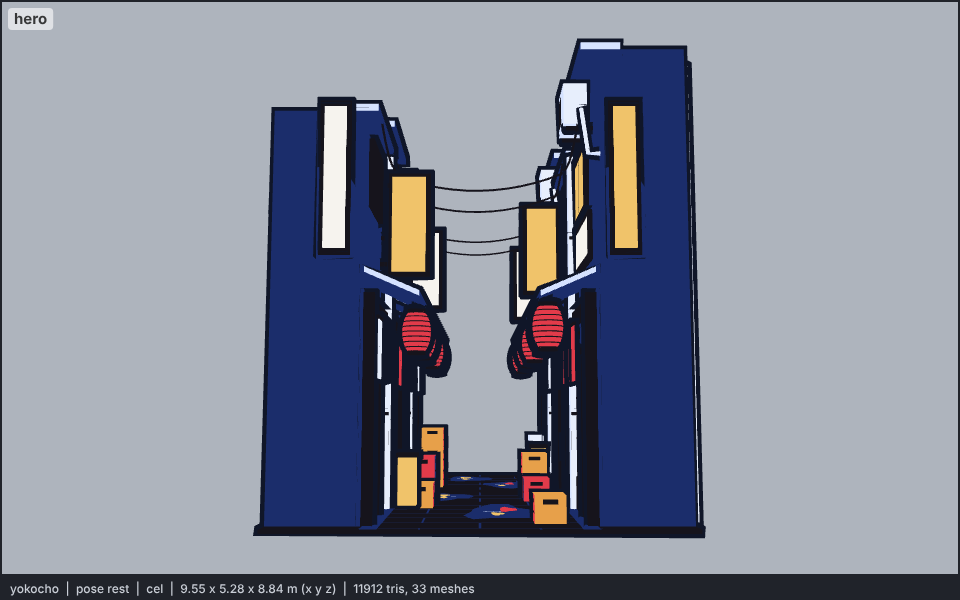
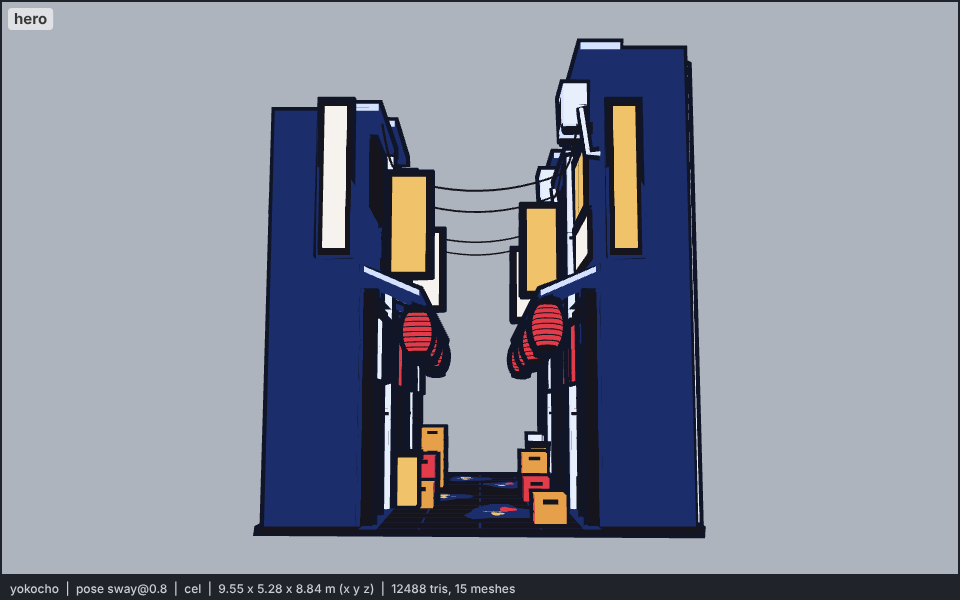
models: yokocho, merge to 15 meshes; lanterns swing by vertex rewrite
Static parts merge per material pair (pave into wood, lines and wires into
lattice, sky lines and puddles into one, amber reflections into glow).
The lanterns have no meshes of their own: paper, rib bands and caps are
vertex ranges in the noren-red, lattice and wood meshes, and pose()
rotates each range (positions, normals, hull normals) about its pivot
joint. The paper is now closed under one hull with the rib bands 4 mm
proud. 10 segments a lantern: ~12.5k triangles at default, ~18.5k at
length 12.

Claude-Session: https://claude.ai/code/session_01RarBCdt4E1fNHHaUKaW5GL

Changed region(s): [[0.0938, 0.96, 0.5312, 1.0], [0.5312, 0.51, 0.5938, 0.63], [0.4062, 0.51, 0.4688, 0.63]]

diff --git a/models/yokocho.js b/models/yokocho.js
@@ -20,14 +20,15 @@
 //   CLUTTER  beer crates stacked as stools (two colours, dark hand slots), one AC unit on a stand at ground level.
 //   PAVING   a dark stone slab with pale joint lines in a running bond, a gutter strip at each foot, and irregular puddle
 //            fans (pale, wet) with lantern-red and sign-amber reflections inside them.
-//   LANTERNS one or two akachochin per bay hung from the eave edge: one mesh each (paper, rib lines and caps as material
-//            groups under one hull, geometry shared), each on its own pivot joint "lantern<i>" at the hook.
+//   LANTERNS one or two akachochin per bay hung from the eave edge, each on its own pivot joint "lantern<i>" at the hook.
+//            They have no meshes of their own: paper, rib lines and caps are vertex ranges in the noren-red, lattice and
+//            wood meshes, and pose() rewrites each lantern's ranges (positions, normals, hull normals) about its pivot.
 // Proportions (real size, base unit the bay B = 2.0 m): alley 2.5 wide between facades (1.25 B), default 8 long (4 bays a
 //   side), buildings 1.0 deep; eave 2.78 at the wall down to 2.52 at 0.6 out; door 1.0 x 1.85; noren 2.22-1.58; lanterns
 //   0.34 wide, 0.48 paper, hook 2.49, bottom 1.92; boards 2.95-3.4, blades 2.95-4.15 and 0.45 out; upper windows
 //   3.55-4.25; bays 4.5-5.2 tall plus a 0.08 lip (top 5.28 = 2.64 B); wires 4.2-4.45.
-// Budget: ~11.9k triangles at the default length: 21 static meshes (one per material) plus 12 lanterns (552 each, one
-//   mesh each so they can swing); length 12 is ~17.6k.
+// Budget: ~12.5k triangles at the default length (12 lanterns at 600 each) in 15 meshes, one per material pair, at
+//   any length; length 12 is ~18.5k.
 // Hero: the lab's hero camera (az 52) sees the +X row's back wall. To check the shot down the alley, turn the set by
 //   +52 deg about y in a scratch copy (set.rotation.y) so that camera looks in at the +Z mouth; a film puts its camera
 //   at the mouth (z ~ length / 2 + 3, eye height) looking down -z.
@@ -40,8 +41,8 @@
 //   walls sky #1b2d6b flat (night ambient); wood (posts, beams, frames, skirts, sign frames, brackets) hair #16141c
 //   flat, lattice bars hair; tin eaves and lips moon #d5e2ff / sky at 0.35 (lit tops pale, alley-facing fascias of the
 //   +X row in sky), corrugation lines sky; practicals at threshold -1 (flat, lit from inside): door and window glow
-//   practical #f0c36a, boards and andons sclera #f6f3ee or practical, lantern paper accent #e23b4a with hair ribs and
-//   caps; noren accent or line #e7eefc flat; pipes and AC units line / moon at 0.35, AC grille hair; crates iris
+//   practical #f0c36a, boards and andons sclera #f6f3ee or practical, lantern paper accent #e23b4a (the noren-red
+//   material) with hair ribs and caps (lattice, wood); noren accent or line #e7eefc flat; pipes and AC units line / moon at 0.35, AC grille hair; crates iris
 //   #e7a04a / accent and accent / sky; paving hair with sky joints; puddles sky (they mirror the night sky) with a
 //   moon glint and accent / practical reflections of the lanterns and signs;
 //   wires hair. hair sits next to ink only in lines and small dark parts: indigo has no tone between sky and ink.
@@ -55,7 +56,6 @@ export const meta = {
     wood: "#16141c",
     tin: "#d5e2ff", tinShade: "#1b2d6b", tinLine: "#1b2d6b",
     glow: "#f0c36a", signWhite: "#f6f3ee", signAmber: "#f0c36a",
-    paper: "#e23b4a", rib: "#16141c",
     norenRed: "#e23b4a", norenWhite: "#e7eefc",
     metal: "#e7eefc", metalShade: "#d5e2ff", grille: "#16141c",
     crate: "#e7a04a", crateShade: "#e23b4a", crateRed: "#e23b4a", crateRedShade: "#1b2d6b",
@@ -306,34 +306,12 @@ export function build(THREE, kit, colors = meta.colors, opts = {}) {
   fbox("wood", 1, gz, PV + 0.12, 0.22, 0.7, 0.04, 0.34);
   for (const e of [-0.3, 0.3]) fbox("wood", 1, gz + e, PV + 0.07, 0.22, 0.04, 0.1, 0.3);
 
-  // ---------- static meshes ----------
-  const FLAT = -1; // practical glow: one flat base tone all round
-  const MAT = {
-    wall: [c.wall, c.wall, 0.35, true], wood: [c.wood, c.wood, 0.35, true], lattice: [c.wood, c.wood, 0.35, false],
-    tin: [c.tin, c.tinShade, 0.35, true], tinLine: [c.tinLine, c.tinLine, 0.35, false],
-    glow: [c.glow, c.glow, FLAT, false], signWhite: [c.signWhite, c.signWhite, FLAT, true], signAmber: [c.signAmber, c.signAmber, FLAT, true],
-    norenRed: [c.norenRed, c.norenRed, FLAT, true], norenWhite: [c.norenWhite, c.norenWhite, FLAT, true],
-    metal: [c.metal, c.metalShade, 0.35, true], grille: [c.grille, c.grille, 0.35, false],
-    crate: [c.crate, c.crateShade, 0.35, true], crateRed: [c.crateRed, c.crateRedShade, 0.35, true],
-    pave: [c.pave, c.pave, 0.35, true], paveLine: [c.paveLine, c.paveLine, 0.35, false], puddle: [c.puddle, c.puddle, FLAT, false],
-    glint: [c.glint, c.glint, FLAT, false], reflRed: [c.reflRed, c.reflRed, FLAT, false], reflAmber: [c.reflAmber, c.reflAmber, FLAT, false],
-    wire: [c.wire, c.wire, 0.35, false],
-  };
-  for (const [key, arr] of Object.entries(soups)) {
-    const [base, shade, threshold, outline] = MAT[key];
-    const g = new THREE.BufferGeometry();
-    g.setAttribute("position", new THREE.Float32BufferAttribute(arr, 3));
-    g.computeVertexNormals();
-    const mesh = kit.toon(g, base, shade, { threshold, outline });
-    mesh.name = key;
-    set.add(mesh);
-  }
 
-  // ---------- lanterns: one shared geometry, groups paper / rib / cap ----------
-  // local: hook at the origin, hangs down -y. Paper r(t) = R sqrt(1 - (k t)^2) between the caps, rib lines as thin rows.
-  const R = 0.17, PH = 0.24, PY = -0.33, RE = 0.095, kk = Math.sqrt(1 - (RE / R) ** 2), NS = 12;
-  const groups = [[], [], []];
-  const gtri = (gi, a, b, e, ref) => { const k = "__l"; soups[k] = []; tri(k, a, b, e, ref); groups[gi].push(...soups[k]); };
+  // ---------- lantern template (local: hook at the origin, hangs down -y) ----------
+  // Paper r(t) = R sqrt(1 - (k t)^2) between the caps, rib lines as thin rows. Three parts: paper, ribs, caps.
+  const R = 0.17, PH = 0.24, PY = -0.33, RE = 0.095, kk = Math.sqrt(1 - (RE / R) ** 2), NS = 10;
+  const parts = [[], [], []];
+  const gtri = (gi, a, b, e, ref) => { const k = "__l"; soups[k] = []; tri(k, a, b, e, ref); parts[gi].push(...soups[k]); };
   const ring = (y, r) => Array.from({ length: NS }, (_, j) => [r * Math.cos((j / NS) * 6.2832), y, r * Math.sin((j / NS) * 6.2832)]);
   const rows = [];
   const NB = 8, RIB = 0.006;
@@ -341,13 +319,18 @@ export function build(THREE, kit, colors = meta.colors, opts = {}) {
     const t = -1 + (2 * b) / NB;
     for (const dt of b === 0 ? [0, RIB] : b === NB ? [-RIB, 0] : [-RIB, RIB]) {
       const tt = Math.max(-1, Math.min(1, t + dt / PH));
-      rows.push({ y: PY + tt * PH, r: R * Math.sqrt(1 - (kk * tt) ** 2) * (1.02 - 0.02 * Math.abs(Math.cos(Math.PI * NB * (tt + 1) / 2))), rib: b > 0 && b < NB && dt > 0 });
+      rows.push({ y: PY + tt * PH, r: R * Math.sqrt(1 - (kk * tt) ** 2) * (1.02 - 0.02 * Math.abs(Math.cos(Math.PI * NB * (tt + 1) / 2))) });
     }
   }
   for (let q = 0; q + 1 < rows.length; q++) {
     const A = ring(rows[q].y, rows[q].r), Bq = ring(rows[q + 1].y, rows[q + 1].r), ref = [0, (rows[q].y + rows[q + 1].y) / 2, 0];
-    const gi = q % 2 === 0 && q > 0 && q < rows.length - 2 ? 1 : 0; // the thin rows at each rib
-    for (let j = 0; j < NS; j++) { gtri(gi, A[j], A[(j + 1) % NS], Bq[(j + 1) % NS], ref); gtri(gi, A[j], Bq[(j + 1) % NS], Bq[j], ref); }
+    for (let j = 0; j < NS; j++) { gtri(0, A[j], A[(j + 1) % NS], Bq[(j + 1) % NS], ref); gtri(0, A[j], Bq[(j + 1) % NS], Bq[j], ref); }
+    // the thin rows at each rib: a dark band 4 mm proud of the closed paper (the paper keeps one unbroken hull)
+    if (q % 2 === 0 && q > 0 && q < rows.length - 2) {
+      const out = (P) => P.map((v) => [v[0] * (1 + 0.004 / R), v[1], v[2] * (1 + 0.004 / R)]);
+      const [Ao, Bo] = [out(A), out(Bq)];
+      for (let j = 0; j < NS; j++) { gtri(1, Ao[j], Ao[(j + 1) % NS], Bo[(j + 1) % NS], ref); gtri(1, Ao[j], Bo[(j + 1) % NS], Bo[j], ref); }
+    }
   }
   // caps: short closed cylinders overlapping the paper ends; a hanger into the eave
   const capCyl = (y0, y1, r) => {
@@ -362,24 +345,91 @@ export function build(THREE, kit, colors = meta.colors, opts = {}) {
   capCyl(PY - PH - 0.03, PY - PH + 0.02, RE + 0.012);
   capCyl(PY + PH + 0.03, 0.04, 0.012);
   delete soups.__l;
-  const lg = new THREE.BufferGeometry();
-  lg.setAttribute("position", new THREE.Float32BufferAttribute([...groups[0], ...groups[1], ...groups[2]], 3));
-  lg.addGroup(0, groups[0].length / 3, 0);
-  lg.addGroup(groups[0].length / 3, groups[1].length / 3, 1);
-  lg.addGroup((groups[0].length + groups[1].length) / 3, groups[2].length / 3, 2);
-  lg.computeVertexNormals();
-  const lmats = [kit.cel(c.paper, c.paper, { threshold: FLAT }), kit.cel(c.rib, c.rib, { threshold: FLAT }), kit.cel(c.rib, c.rib, { threshold: 0.35 })];
-  const pivots = lanternAt.map((p, i) => {
+
+  // ---------- meshes: one per material pair ----------
+  // Soup keys that share a material are merged (ALIAS). The lanterns ride in the norenRed (paper), lattice (ribs) and
+  // wood (caps) meshes: each lantern owns a vertex range in each, and pose() rewrites those ranges about its pivot.
+  const FLAT = -1; // practical glow: one flat base tone all round
+  const MAT = {
+    wall: [c.wall, c.wall, 0.35, true], wood: [c.wood, c.wood, 0.35, true], lattice: [c.wood, c.wood, 0.35, false],
+    tin: [c.tin, c.tinShade, 0.35, true], skyLine: [c.tinLine, c.tinLine, 0.35, false],
+    glow: [c.glow, c.glow, FLAT, false], signWhite: [c.signWhite, c.signWhite, FLAT, true], signAmber: [c.signAmber, c.signAmber, FLAT, true],
+    norenRed: [c.norenRed, c.norenRed, FLAT, true], norenWhite: [c.norenWhite, c.norenWhite, FLAT, true],
+    metal: [c.metal, c.metalShade, 0.35, true],
+    crate: [c.crate, c.crateShade, 0.35, true], crateRed: [c.crateRed, c.crateRedShade, 0.35, true],
+    glint: [c.glint, c.glint, FLAT, false], reflRed: [c.reflRed, c.reflRed, FLAT, false],
+  };
+  // pave and wire share wood's hair; grille is lattice; paving joints, puddles and corrugation are one sky; reflAmber is glow
+  const ALIAS = { pave: "wood", grille: "lattice", wire: "lattice", tinLine: "skyLine", paveLine: "skyLine", puddle: "skyLine", reflAmber: "glow" };
+  const merged = {};
+  for (const [key, arr] of Object.entries(soups)) (merged[ALIAS[key] ?? key] ??= []).push(...arr);
+  const LPART = ["norenRed", "lattice", "wood"]; // paper, ribs, caps
+  const lanterns = lanternAt.map((p) => {
+    const ranges = LPART.map((key, gi) => {
+      const arr = (merged[key] ??= []), start = arr.length;
+      for (let v = 0; v < parts[gi].length; v += 3) arr.push(parts[gi][v] + p[0], parts[gi][v + 1] + p[1], parts[gi][v + 2] + p[2]);
+      return { key, start, local: parts[gi] };
+    });
+    return { p, ranges };
+  });
+  const meshes = {};
+  for (const [key, arr] of Object.entries(merged)) {
+    const [base, shade, threshold, outline] = MAT[key];
+    const g = new THREE.BufferGeometry();
+    g.setAttribute("position", new THREE.Float32BufferAttribute(arr, 3));
+    g.computeVertexNormals();
+    const mesh = kit.toon(g, base, shade, { threshold, outline });
+    mesh.name = key;
+    set.add(mesh);
+    meshes[key] = mesh;
+  }
+  // rest normals (and hull normals, in cel) of every lantern range, to rotate with it
+  for (const l of lanterns)
+    for (const r of l.ranges) {
+      const g = meshes[r.key].geometry, n = r.local.length;
+      r.normal = g.attributes.normal.array.slice(r.start, r.start + n);
+      if (g.attributes.hullNormal) r.hull = g.attributes.hullNormal.array.slice(r.start, r.start + n);
+    }
+  // pivots stay as joints (for --joints and films); they carry no mesh, pose() reads their rotation
+  const pivots = lanterns.map((l, i) => {
     const pv = new THREE.Group();
     pv.name = `lantern${i}`;
-    pv.position.set(...p);
-    const m = kit.outline(new THREE.Mesh(lg, lmats));
-    m.name = "lanternBody";
-    pv.add(m);
+    pv.position.set(...l.p);
     set.add(pv);
     joints[pv.name] = pv;
     return pv;
   });
+  const v3 = new THREE.Vector3(), m3 = new THREE.Matrix3();
+  function writeLanterns() {
+    const touched = new Set();
+    lanterns.forEach((l, i) => {
+      const pv = pivots[i];
+      pv.updateMatrix();
+      m3.setFromMatrix4(pv.matrix);
+      for (const r of l.ranges) {
+        const g = meshes[r.key].geometry, P = g.attributes.position.array, N = g.attributes.normal.array, Hn = g.attributes.hullNormal?.array;
+        for (let v = 0; v < r.local.length; v += 3) {
+          v3.set(r.local[v], r.local[v + 1], r.local[v + 2]).applyMatrix4(pv.matrix);
+          P[r.start + v] = v3.x; P[r.start + v + 1] = v3.y; P[r.start + v + 2] = v3.z;
+          v3.set(r.normal[v], r.normal[v + 1], r.normal[v + 2]).applyMatrix3(m3);
+          N[r.start + v] = v3.x; N[r.start + v + 1] = v3.y; N[r.start + v + 2] = v3.z;
+          if (Hn && r.hull) {
+            v3.set(r.hull[v], r.hull[v + 1], r.hull[v + 2]).applyMatrix3(m3);
+            Hn[r.start + v] = v3.x; Hn[r.start + v + 1] = v3.y; Hn[r.start + v + 2] = v3.z;
+          }
+        }
+        touched.add(r.key);
+      }
+    });
+    for (const key of touched) {
+      const g = meshes[key].geometry;
+      g.attributes.position.needsUpdate = true;
+      g.attributes.normal.needsUpdate = true;
+      if (g.attributes.hullNormal) g.attributes.hullNormal.needsUpdate = true;
+      g.computeBoundingSphere();
+      g.computeBoundingBox();
+    }
+  }
 
   // ---------- pose and clip ----------
   // Sign convention: +rx swings a lantern's bottom toward -z (along the alley), +rz toward +x.
@@ -390,6 +440,7 @@ export function build(THREE, kit, colors = meta.colors, opts = {}) {
       if (ph === null) return pv.rotation.set(0, 0, 0);
       pv.rotation.set(6 * D2R * Math.sin(TAU * (ph - i * 0.11)), 0, 2.5 * D2R * Math.sin(TAU * 2 * (ph - i * 0.07) + 0.6));
     });
+    writeLanterns();
     root.updateMatrixWorld(true);
   }
   function pose(name) {
